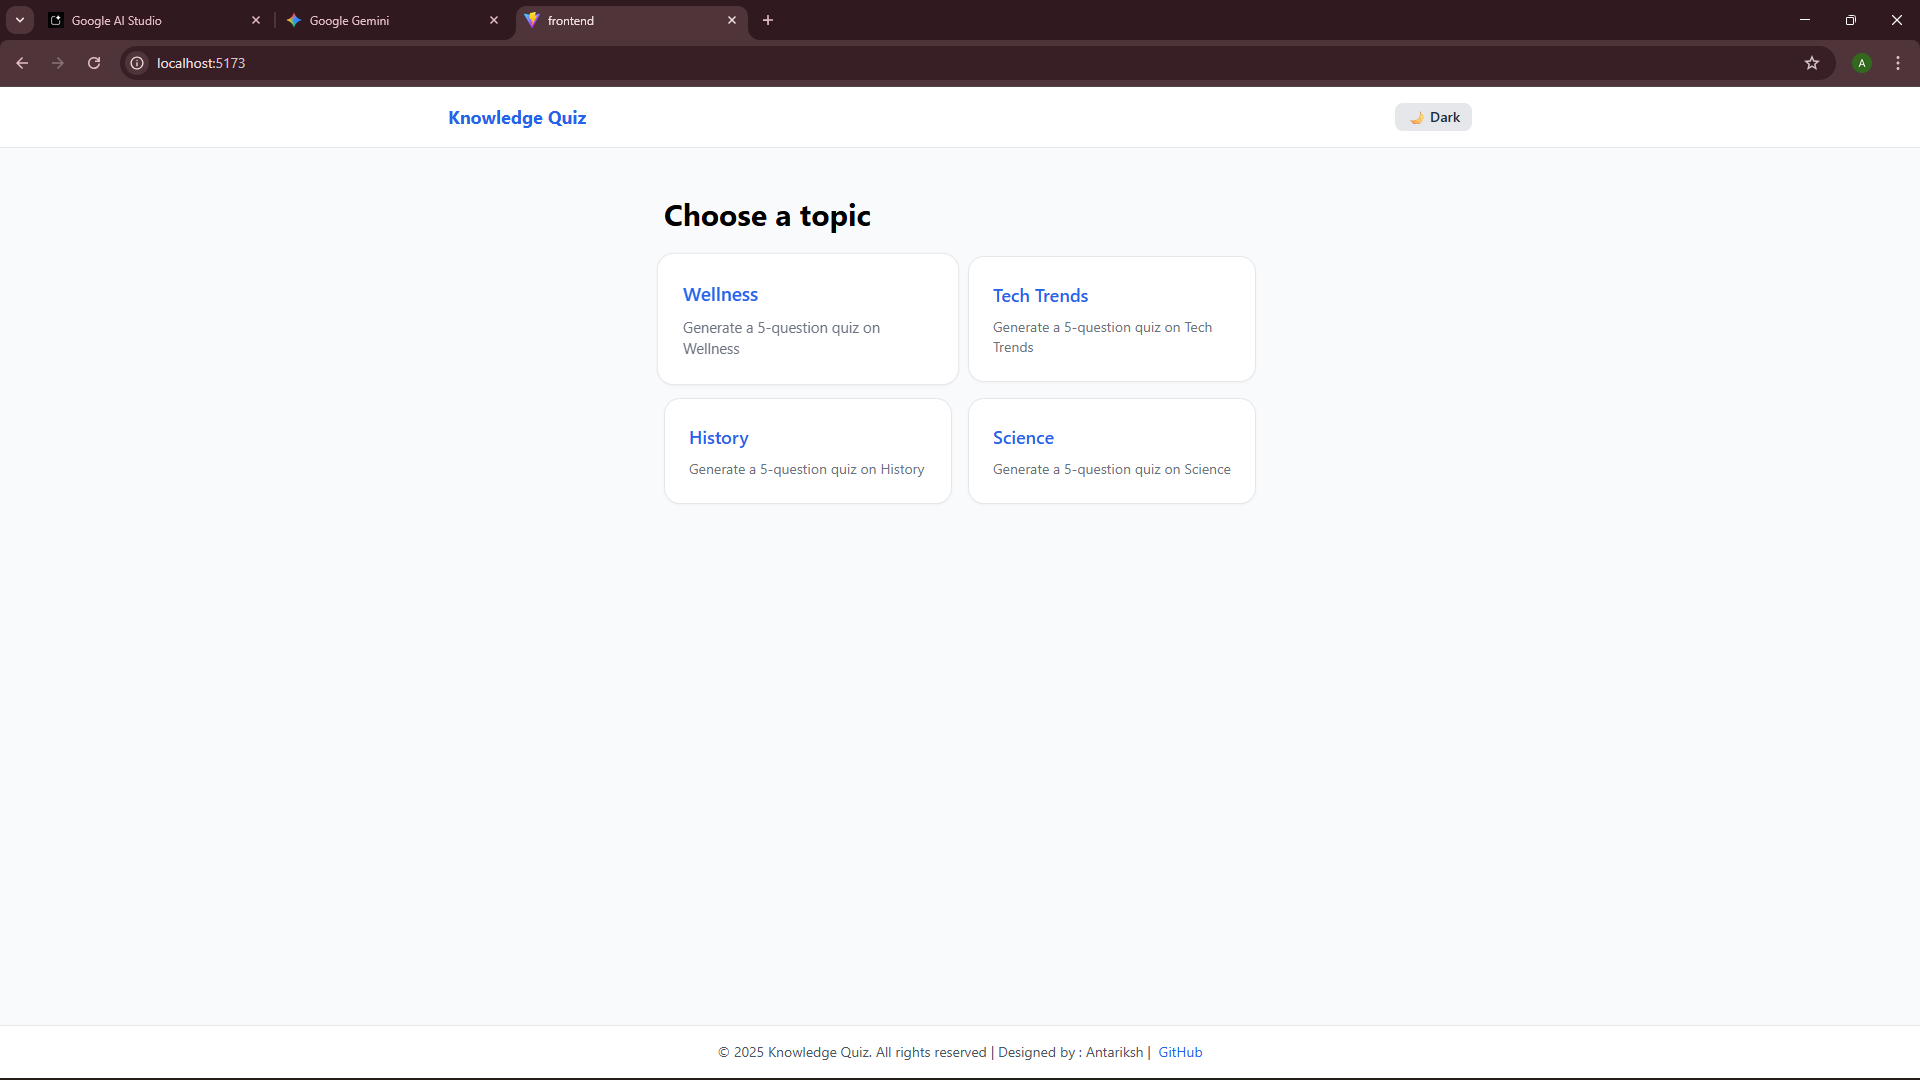
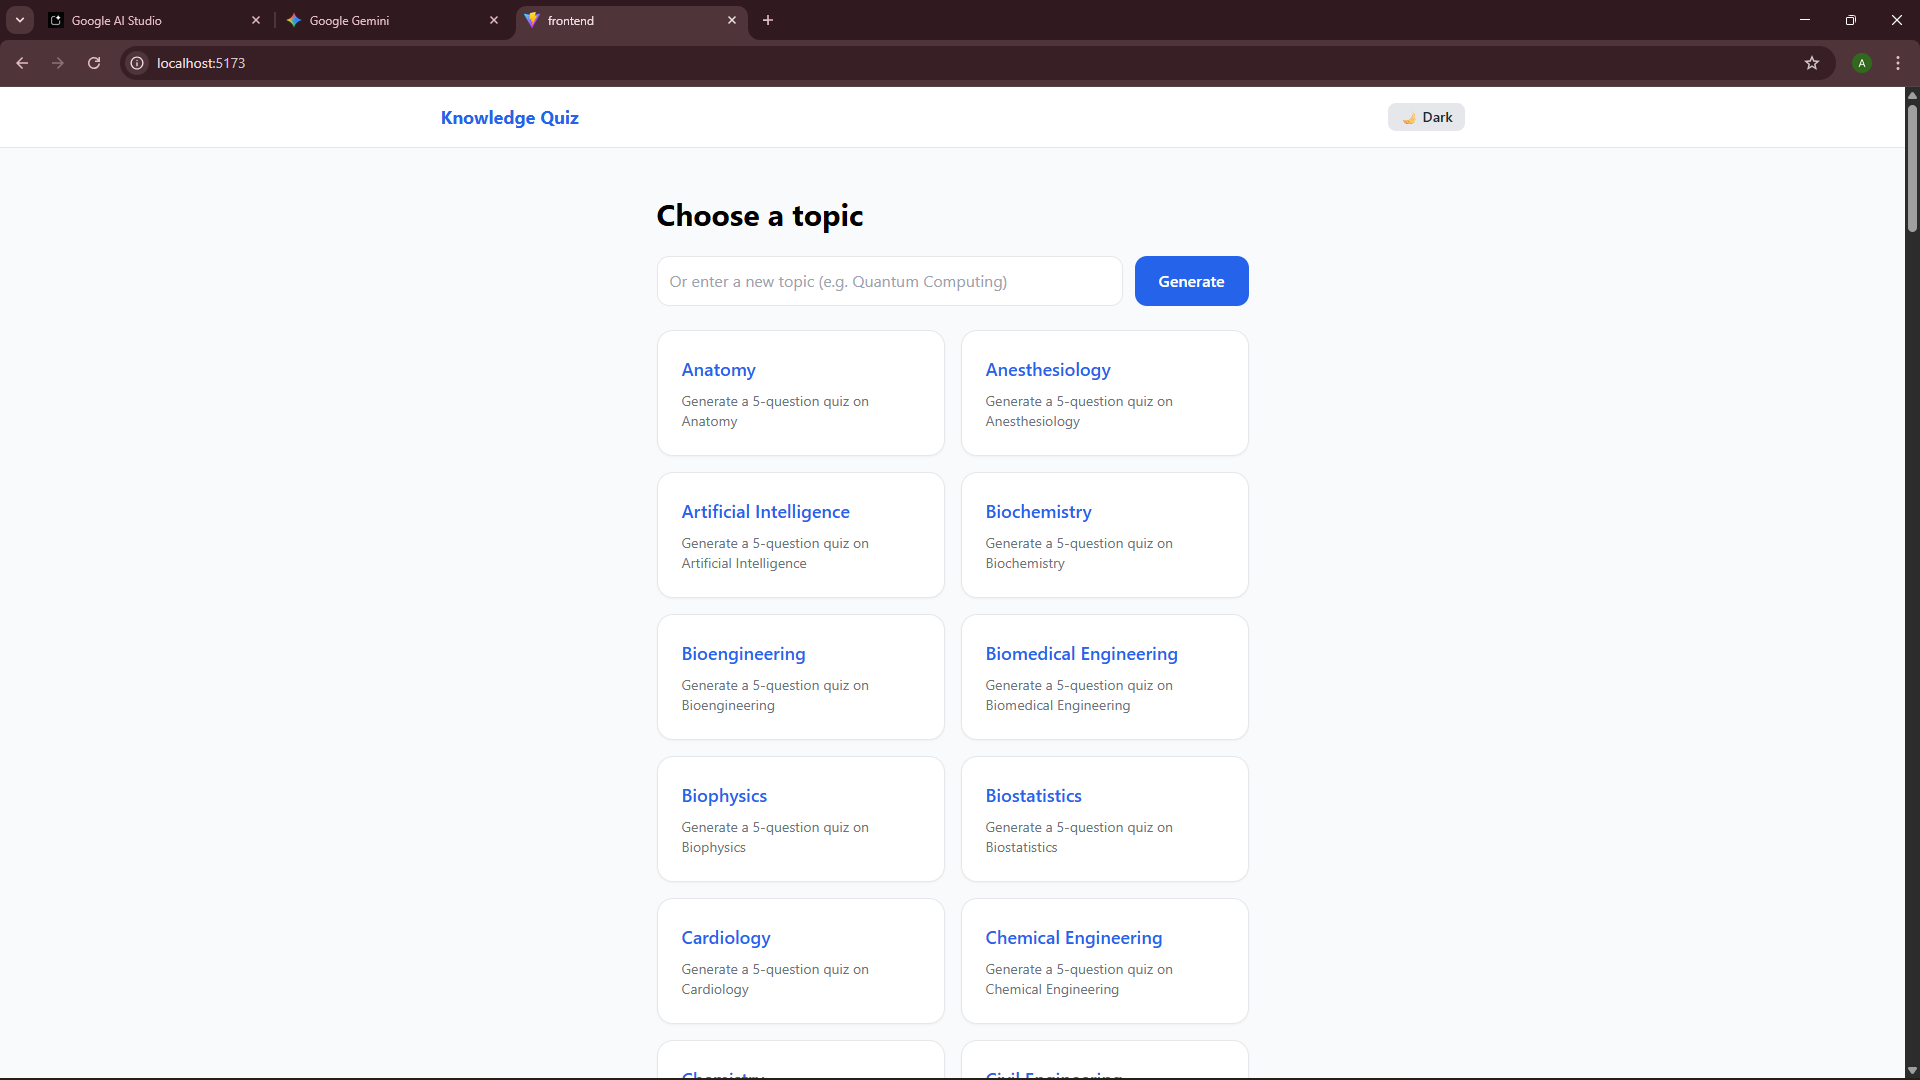
feat: add custom topic input and enhance topic selection in TopicSelect component

diff --git a/frontend/src/pages/TopicSelect.jsx b/frontend/src/pages/TopicSelect.jsx
@@ -1,32 +1,163 @@
 import React from "react";
+import { useState } from "react";
 
 const TOPICS = [
-  { id: "wellness", name: "Wellness" },
-  { id: "tech", name: "Tech Trends" },
-  { id: "history", name: "History" },
-  { id: "science", name: "Science" },
+    { id: "anatomy", name: "Anatomy" },
+    { id: "anesthesiology", name: "Anesthesiology" },
+    { id: "artificial-intelligence", name: "Artificial Intelligence" },
+    { id: "biochemistry", name: "Biochemistry" },
+    { id: "bioengineering", name: "Bioengineering" },
+    { id: "biomedical-engineering", name: "Biomedical Engineering" },
+    { id: "biophysics", name: "Biophysics" },
+    { id: "biostatistics", name: "Biostatistics" },
+    { id: "cardiology", name: "Cardiology" },
+    { id: "chemical-engineering", name: "Chemical Engineering" },
+    { id: "chemistry", name: "Chemistry" },
+    { id: "civil-engineering", name: "Civil Engineering" },
+    { id: "clinical-pharmacology", name: "Clinical Pharmacology" },
+    { id: "cloud-computing", name: "Cloud Computing" },
+    { id: "communication-systems", name: "Communication Systems" },
+    { id: "compiler-design", name: "Compiler Design" },
+    { id: "computer-architecture", name: "Computer Architecture" },
+    { id: "computer-graphics", name: "Computer Graphics" },
+    { id: "computer-networks", name: "Computer Networks" },
+    { id: "computer-organization", name: "Computer Organization" },
+    { id: "control-systems", name: "Control Systems" },
+    { id: "cybersecurity", name: "Cybersecurity" },
+    { id: "data-mining", name: "Data Mining" },
+    { id: "data-structures", name: "Data Structures" },
+    { id: "database-systems", name: "Database Systems" },
+    { id: "dermatology", name: "Dermatology" },
+    { id: "diagnostic-imaging", name: "Diagnostic Imaging" },
+    { id: "digital-electronics", name: "Digital Electronics" },
+    { id: "distributed-systems", name: "Distributed Systems" },
+    { id: "ecg", name: "Electrocardiography (ECG)" },
+    { id: "electrical-engineering", name: "Electrical Engineering" },
+    { id: "electromagnetics", name: "Electromagnetics" },
+    { id: "embedded-systems", name: "Embedded Systems" },
+    { id: "endocrinology", name: "Endocrinology" },
+    { id: "environmental-engineering", name: "Environmental Engineering" },
+    { id: "epidemiology", name: "Epidemiology" },
+    { id: "fluid-mechanics", name: "Fluid Mechanics" },
+    { id: "gastroenterology", name: "Gastroenterology" },
+    { id: "general-medicine", name: "General Medicine" },
+    { id: "genetics", name: "Genetics" },
+    { id: "geotechnical-engineering", name: "Geotechnical Engineering" },
+    { id: "gynecology", name: "Gynecology" },
+    { id: "heat-transfer", name: "Heat Transfer" },
+    { id: "hematology", name: "Hematology" },
+    { id: "human-anatomy", name: "Human Anatomy" },
+    { id: "immunology", name: "Immunology" },
+    { id: "industrial-engineering", name: "Industrial Engineering" },
+    { id: "information-retrieval", name: "Information Retrieval" },
+    { id: "information-security", name: "Information Security" },
+    { id: "internal-medicine", name: "Internal Medicine" },
+    { id: "machine-learning", name: "Machine Learning" },
+    { id: "manufacturing-processes", name: "Manufacturing Processes" },
+    { id: "materials-science", name: "Materials Science" },
+    { id: "mathematics", name: "Mathematics" },
+    { id: "mechanical-engineering", name: "Mechanical Engineering" },
+    { id: "medical-biochemistry", name: "Medical Biochemistry" },
+    { id: "medical-ethics", name: "Medical Ethics" },
+    { id: "medical-genetics", name: "Medical Genetics" },
+    { id: "medical-microbiology", name: "Medical Microbiology" },
+    { id: "medical-physics", name: "Medical Physics" },
+    { id: "medical-terminology", name: "Medical Terminology" },
+    { id: "microbiology", name: "Microbiology" },
+    { id: "mobile-computing", name: "Mobile Computing" },
+    { id: "molecular-biology", name: "Molecular Biology" },
+    { id: "nephrology", name: "Nephrology" },
+    { id: "neurology", name: "Neurology" },
+    { id: "neurosurgery", name: "Neurosurgery" },
+    { id: "numerical-methods", name: "Numerical Methods" },
+    { id: "obstetrics", name: "Obstetrics" },
+    { id: "oncology", name: "Oncology" },
+    { id: "operating-systems", name: "Operating Systems" },
+    { id: "ophthalmology", name: "Ophthalmology" },
+    { id: "orthopedics", name: "Orthopedics" },
+    { id: "otolaryngology", name: "Otolaryngology (ENT)" },
+    { id: "pathology", name: "Pathology" },
+    { id: "pediatrics", name: "Pediatrics" },
+    { id: "pharmacology", name: "Pharmacology" },
+    { id: "physical-chemistry", name: "Physical Chemistry" },
+    { id: "physiology", name: "Physiology" },
+    { id: "plastic-surgery", name: "Plastic Surgery" },
+    { id: "power-systems", name: "Power Systems" },
+    { id: "probability", name: "Probability" },
+    { id: "programming-languages", name: "Programming Languages" },
+    { id: "psychiatry", name: "Psychiatry" },
+    { id: "pulmonology", name: "Pulmonology" },
+    { id: "radiology", name: "Radiology" },
+    { id: "robotics", name: "Robotics" },
+    { id: "signal-processing", name: "Signal Processing" },
+    { id: "software-engineering", name: "Software Engineering" },
+    { id: "solid-mechanics", name: "Solid Mechanics" },
+    { id: "structural-analysis", name: "Structural Analysis" },
+    { id: "structural-engineering", name: "Structural Engineering" },
+    { id: "surgery", name: "Surgery" },
+    { id: "thermodynamics", name: "Thermodynamics" },
+    { id: "toxicology", name: "Toxicology" },
+    { id: "transfusion-medicine", name: "Transfusion Medicine" },
+    { id: "transportation-engineering", name: "Transportation Engineering" },
+    { id: "urology", name: "Urology" },
+    { id: "virology", name: "Virology" },
+    { id: "web-development", name: "Web Development" }
 ];
 
 export default function TopicSelect({ onChoose }) {
-  return (
-    <div className="max-w-2xl mx-auto p-6 space-y-6">
-      <h1 className="text-3xl font-bold mb-4 dark:text-white">
-        Choose a topic
-      </h1>
-      <div className="grid grid-cols-2 gap-4">
-        {TOPICS.map((t) => (
-          <button
-            key={t.id}
-            onClick={() => onChoose(t.id)}
-            className="p-6 border rounded-2xl bg-white dark:bg-gray-800 text-blue-600 dark:text-yellow-300 text-left hover:scale-105 transition-transform shadow-sm"
-          >
-            <h2 className="text-lg font-semibold">{t.name}</h2>
-            <p className="text-sm mt-2 text-gray-500 dark:text-gray-400">
-              Generate a 5-question quiz on {t.name}
-            </p>
-          </button>
-        ))}
-      </div>
-    </div>
-  );
+    const [customTopic, setCustomTopic] = useState("");
+    const [loading, setLoading] = useState(false);
+
+    const handleCustomTopic = async (e) => {
+        e.preventDefault();
+        if (!customTopic.trim()) return;
+        setLoading(true);
+        // You can call your AI API here to validate or generate the topic if needed
+        // For now, just pass the custom topic as an id
+        onChoose(customTopic.trim());
+        setLoading(false);
+    };
+
+    return (
+        <div className="max-w-2xl mx-auto p-6 space-y-6">
+            <h1 className="text-3xl font-bold mb-4 dark:text-white">
+                Choose a topic
+            </h1>
+            <form
+                className="mt-8 flex flex-col sm:flex-row items-stretch gap-3"
+                onSubmit={handleCustomTopic}
+            >
+                <input
+                    type="text"
+                    className="flex-1 p-3 border rounded-xl dark:bg-gray-900 dark:text-white"
+                    placeholder="Or enter a new topic (e.g. Quantum Computing)"
+                    value={customTopic}
+                    onChange={(e) => setCustomTopic(e.target.value)}
+                    disabled={loading}
+                />
+                <button
+                    type="submit"
+                    className="px-6 py-3 rounded-xl bg-blue-600 text-white font-semibold hover:bg-blue-700 dark:bg-yellow-400 dark:text-gray-900 dark:hover:bg-yellow-300 transition"
+                    disabled={loading}
+                >
+                    {loading ? "Generating..." : "Generate"}
+                </button>
+            </form>
+            <div className="grid grid-cols-2 gap-4">
+                {TOPICS.map((t) => (
+                    <button
+                        key={t.id}
+                        onClick={() => onChoose(t.id)}
+                        className="p-6 border rounded-2xl bg-white dark:bg-gray-800 text-blue-600 dark:text-yellow-300 text-left hover:scale-105 transition-transform shadow-sm"
+                    >
+                        <h2 className="text-lg font-semibold">{t.name}</h2>
+                        <p className="text-sm mt-2 text-gray-500 dark:text-gray-400">
+                            Generate a 5-question quiz on {t.name}
+                        </p>
+                    </button>
+                ))}
+            </div>
+            
+        </div>
+    );
 }

diff --git a/README.md b/README.md
@@ -2,35 +2,40 @@
 
 A modern AI-powered quiz application that generates custom quizzes on various topics using Google Gemini. Built with React (frontend) and Express (backend).
 
-## Screenshot
-
 ## Screenshots
+
 | Screenshot | Description |
 |------------|-------------|
-| ![Home Screen](/frontend/screenshots/home_screen.png) | Topic selection interface where users choose quiz subjects |
-| ![Loading Screen](/frontend/screenshots/loading_screen.png) | Displays loading animation while questions are being generated |
-| ![Quiz Screen](/frontend/screenshots/quiz_screen.png) | Quiz interface displaying AI-generated questions and options |
-| ![Feedback Screen](/frontend/screenshots/feedback_screen.png) | Results and personalized feedback after quiz completion |
-
+| ![Home Screen](frontend/screenshots/home_screen.png) | Topic selection interface where users choose quiz subjects |
+| ![Loading Screen](frontend/screenshots/loading_screen.png) | Displays loading animation while questions are being generated |
+| ![Quiz Screen](frontend/screenshots/quiz_screen.png) | Quiz interface displaying AI-generated questions and options |
+| ![Feedback Screen](frontend/screenshots/feedback_screen.png) | Results and personalized feedback after quiz completion |
 
 ## Project Structure
 
 ```
 AI-quiz/
 ├── backend/
+│   ├── .env
 │   ├── package.json
 │   └── server.js
 ├── frontend/
-│   ├── package.json
-│   ├── vite.config.js
-│   ├── tailwind.config.js
-│   ├── postcss.config.js
+│   ├── .gitignore
 │   ├── eslint.config.js
 │   ├── index.html
+│   ├── package.json
+│   ├── postcss.config.js
+│   ├── tailwind.config.js
+│   ├── vite.config.js
 │   ├── public/
+│   ├── screenshots/
+│   │   ├── feedback_screen.png
+│   │   ├── home_screen.png
+│   │   ├── loading_screen.png
+│   │   └── quiz_screen.png
 │   └── src/
-│       ├── App.jsx
 │       ├── App.css
+│       ├── App.jsx
 │       ├── index.css
 │       ├── main.jsx
 │       ├── components/
@@ -102,9 +107,10 @@ npm run dev
 
 The frontend will be available at [http://localhost:5173](http://localhost:5173) and the backend at [http://localhost:5000](http://localhost:5000).
 
+
 ## Usage
 
-1. Select a quiz topic.
+1. Select a quiz topic or enter a custom topic.
 2. Wait for the AI to generate your quiz.
 3. Answer the questions.
 4. View your score and receive AI-generated feedback.
@@ -112,8 +118,8 @@ The frontend will be available at [http://localhost:5173](http://localhost:5173)
 
 ## Customization
 
-- **Add Topics:** Edit the `TOPICS` array in [`src/pages/TopicSelect.jsx`](frontend/src/pages/TopicSelect.jsx).
-- **Styling:** Modify Tailwind classes or add custom CSS in [`src/App.css`](frontend/src/App.css).
+- **Add Topics:** Edit the `TOPICS` array in [`frontend/src/pages/TopicSelect.jsx`](frontend/src/pages/TopicSelect.jsx).
+- **Styling:** Modify Tailwind classes or add custom CSS in [`frontend/src/App.css`](frontend/src/App.css).
 - **Quiz Logic:** Update backend logic in [`backend/server.js`](backend/server.js).
 
 ## License
